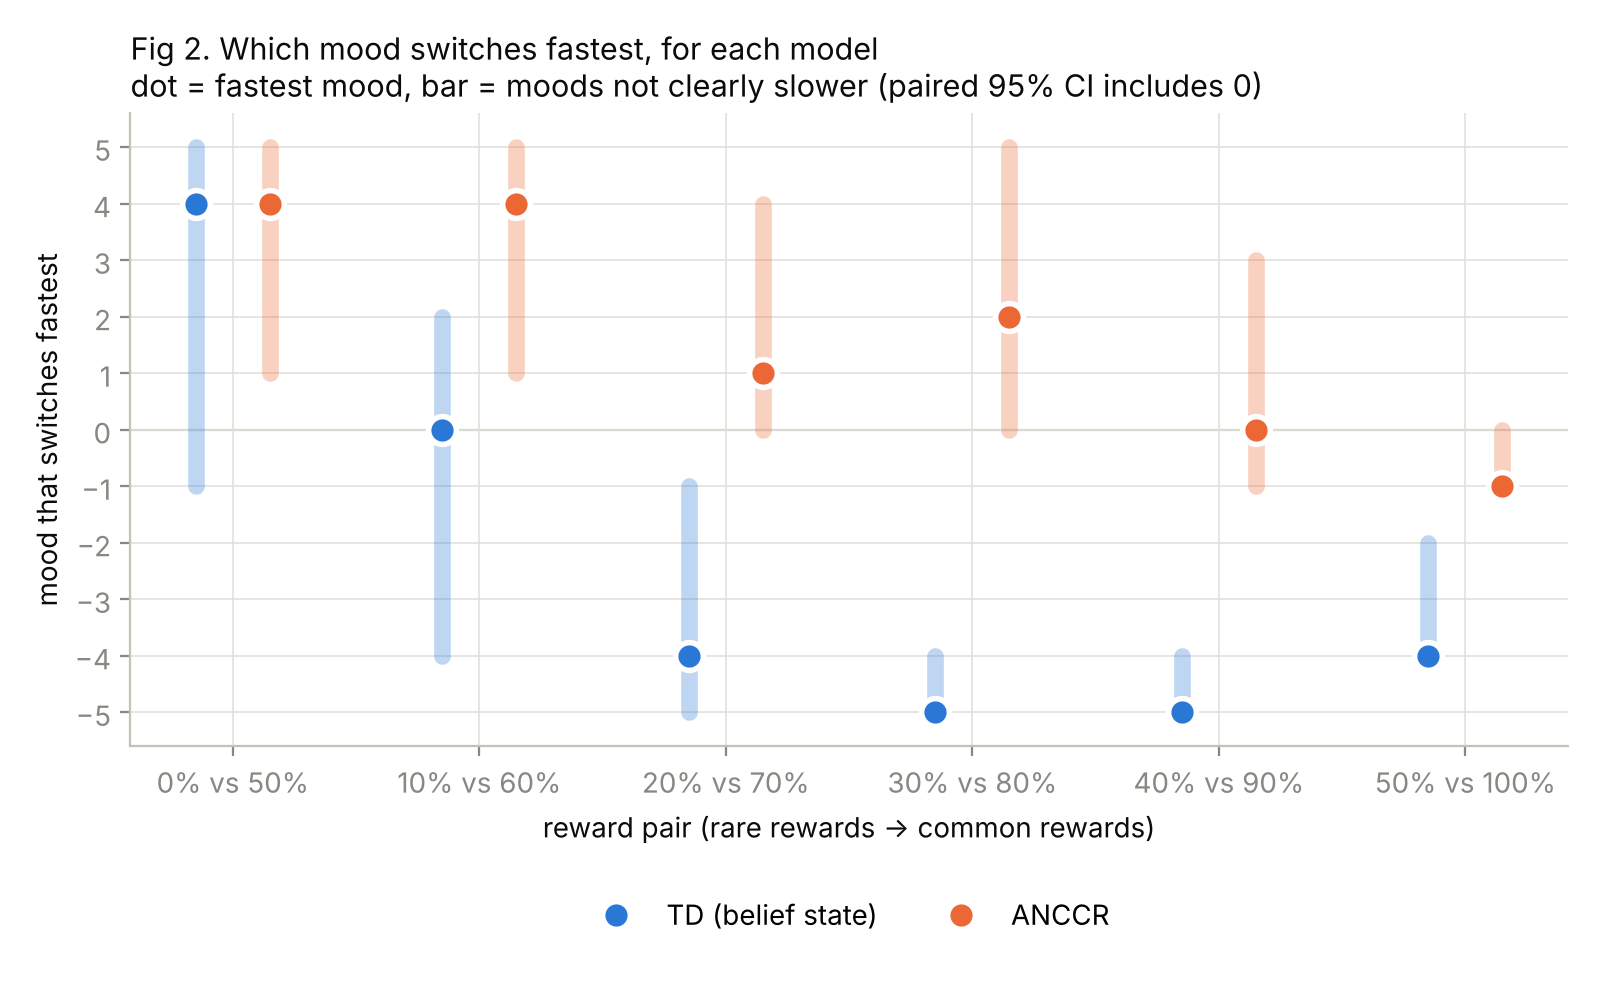
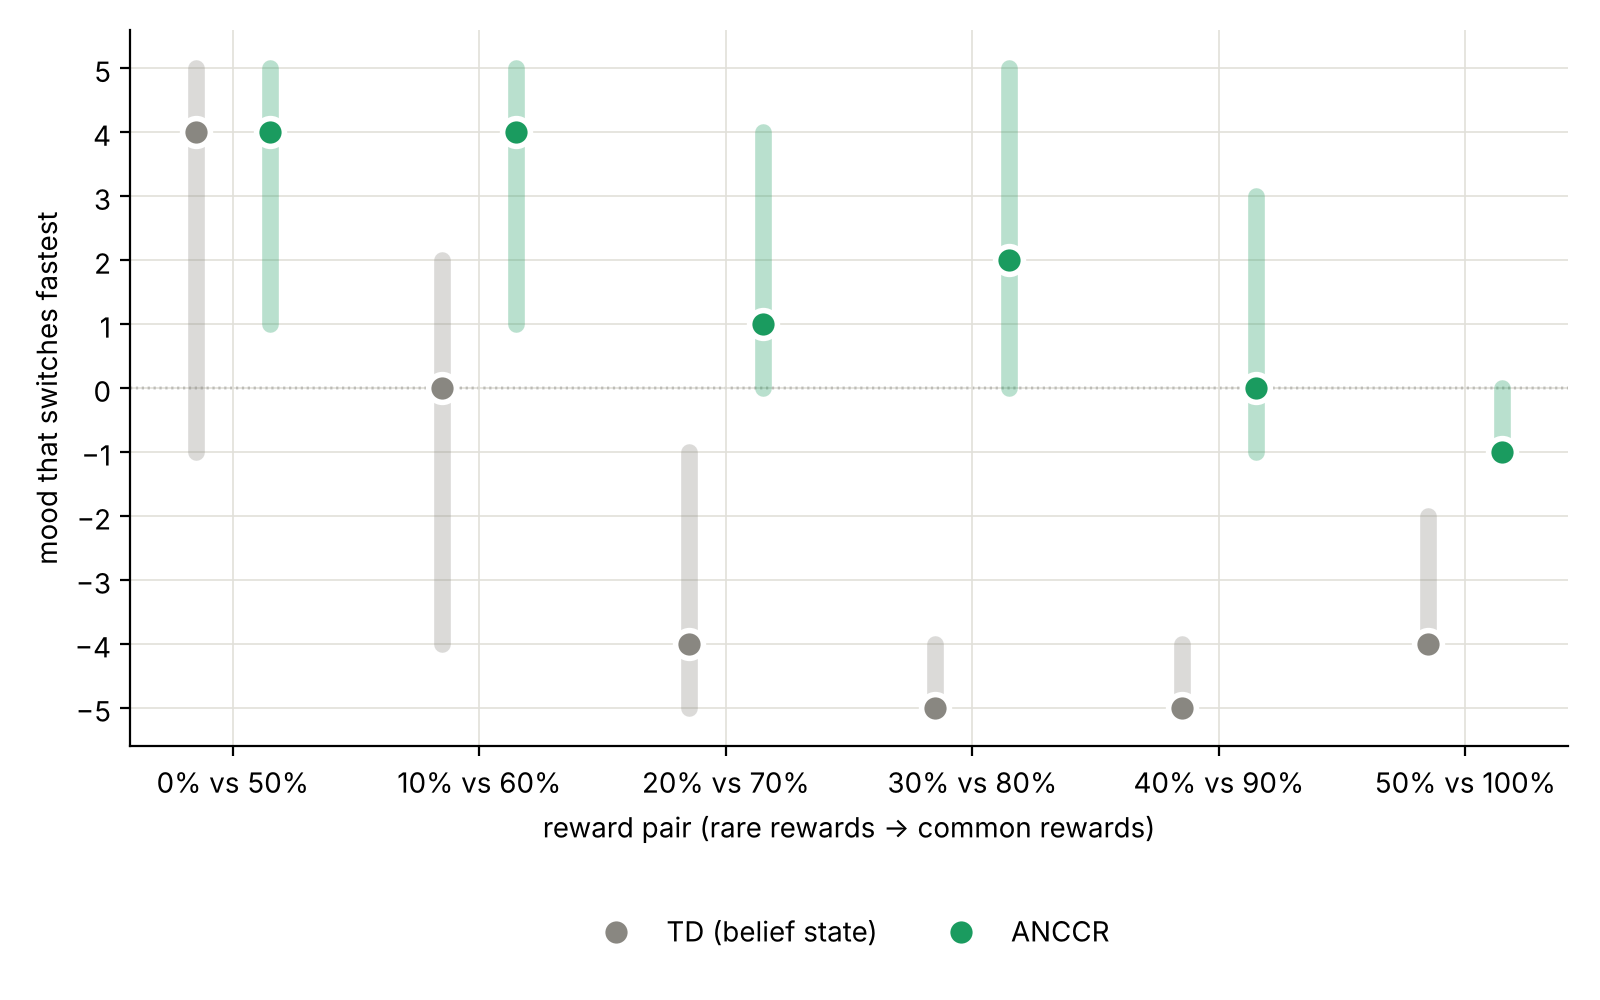
Match Figs 1-5 to the Fig 6 style
Grey for TD and green for ANCCR, black axes, dotted zero lines, no
markers, and no titles printed inside the images (captions are in the
paper). Fig 4 no longer calls ANCCR's signal a surprise.

Claude-Session: https://claude.ai/code/session_011prpWWjP1xMrsY1Rxg3n9Z

diff --git a/code/make_plots.py b/code/make_plots.py
@@ -42,13 +42,13 @@ MOOD = np.array(R['mood'])
 
 # panels ordered from rarest to most common rewards
 PAIRS = ['0-50', '10-60', '20-70', '30-80', '40-90', '50-100']
-MODELS = {'BeliefTD': ('TD (belief state)', '#2a78d6'),
-          'ANCCR': ('ANCCR', '#eb6834')}
+# same look as Fig 6 (make_fig6_values.py): grey and green, black axes, no title in the image
+MODELS = {'BeliefTD': ('TD (belief state)', '#898781'),
+          'ANCCR': ('ANCCR', '#1a9b5f')}
 INK, MUTED, GRID = '#0b0b0b', '#898781', '#e1e0d9'
 
 plt.rcParams.update({
-    'font.size': 10, 'axes.edgecolor': '#c3c2b7', 'axes.labelcolor': INK,
-    'xtick.color': MUTED, 'ytick.color': MUTED, 'axes.spines.top': False,
+    'font.size': 10, 'axes.spines.top': False,
     'axes.spines.right': False, 'axes.grid': True, 'grid.color': GRID,
     'grid.linewidth': 0.6, 'figure.facecolor': 'white', 'axes.facecolor': 'white',
     'legend.frameon': False,
@@ -90,12 +90,12 @@ def mean_ci(pair, model, key):
 
 def band(ax, m, lo, hi, col, ls='-', label=None, ms=4):
     ax.fill_between(MOOD, lo, hi, color=col, alpha=0.18, lw=0)
-    return ax.plot(MOOD, m, color=col, lw=2, ls=ls, marker='o', ms=ms, label=label)[0]
+    return ax.plot(MOOD, m, color=col, lw=2, ls=ls, label=label)[0]
 
 
 def panel_grid(title):
     fig, axes = plt.subplots(2, 3, figsize=(11, 7), sharex=True, sharey=True)
-    fig.suptitle(title, x=0.01, ha='left', fontsize=12, color=INK)
+    # the title is kept here as a note for the code only; captions live in the paper
     return fig, axes.ravel()
 
 
@@ -104,14 +104,14 @@ def finish(fig, ax_list, ylabel, name, legend_handles):
         lo, hi = pair.split('-')
         ax.set_title(f'{lo}% vs {hi}%', fontsize=10, color=INK, loc='left')
         ax.set_xticks([-5, -3, -1, 0, 1, 3, 5])
-        ax.axvline(0, color='#c3c2b7', lw=0.8, zorder=0)
+        ax.axvline(0, color=INK, lw=0.8, ls=':', zorder=0)
     for ax in ax_list[3:]:
         ax.set_xlabel('mood (−5 sad … +5 happy)')
     for ax in ax_list[::3]:
         ax.set_ylabel(ylabel)
     fig.legend(handles=legend_handles, loc='lower center', ncol=len(legend_handles),
                bbox_to_anchor=(0.5, 0.0), handlelength=3)
-    fig.tight_layout(rect=(0, 0.06, 1, 0.96))
+    fig.tight_layout(rect=(0, 0.06, 1, 1))
     path = os.path.join(OUT, name)
     fig.savefig(path, dpi=200)
     plt.close(fig)
@@ -151,16 +151,13 @@ for model, (label, col) in MODELS.items():
         ax.plot(x[i] + offset[model], MOOD[b], ls='none', marker='o', ms=10,
                 color=col, markeredgecolor='white', markeredgewidth=2,
                 label=label if i == 0 else None)
-ax.axhline(0, color='#c3c2b7', lw=0.8, zorder=0)
+ax.axhline(0, color=INK, lw=0.8, ls=':', zorder=0)
 ax.set_xticks(x)
 ax.set_xticklabels([p.replace('-', '% vs ') + '%' for p in PAIRS])
 ax.set_yticks(range(-5, 6))
 ax.set_ylim(-5.6, 5.6)
 ax.set_xlabel('reward pair (rare rewards → common rewards)')
 ax.set_ylabel('mood that switches fastest')
-ax.set_title('Fig 2. Which mood switches fastest, for each model\n'
-             'dot = fastest mood, bar = moods not clearly slower (paired 95% CI includes 0)',
-             loc='left', fontsize=11, color=INK)
 ax.legend(loc='upper center', bbox_to_anchor=(0.5, -0.2), ncol=2)
 fig.tight_layout()
 path = os.path.join(OUT, 'fig2_best_mood.png')
@@ -176,7 +173,7 @@ if HAS_RUNS:
                           'each run is compared with the same run at mood 0 (paired); band = 95% CI')
     handles = []
     for ax, pair in zip(axs, PAIRS):
-        ax.axhline(0, color='#c3c2b7', lw=0.8, zorder=0)
+        ax.axhline(0, color=INK, lw=0.8, ls=':', zorder=0)
         for model, (label, col) in MODELS.items():
             x = runs(pair, model, 'adapt')
             d = x - x[i0]                       # paired difference, per run
@@ -191,7 +188,7 @@ else:
 
 
 # ---- Fig 4: dopamine ----
-fig, axs = panel_grid('Fig 4. Average size of the dopamine (surprise) signal in the 100 trials after the swap\n'
+fig, axs = panel_grid('Fig 4. Average size of the dopamine signal in the 100 trials after the swap\n'
                       'solid = trials that gave a reward, dashed = trials that missed, band = 95% CI')
 handles = []
 for ax, pair in zip(axs, PAIRS):
